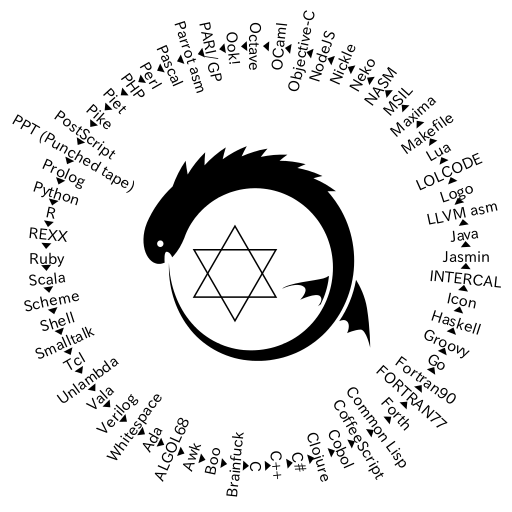
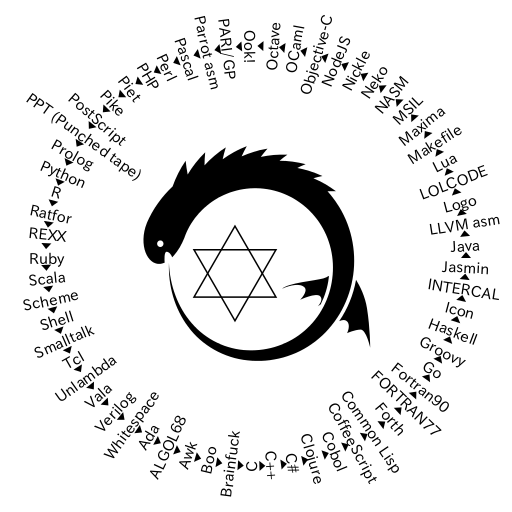
* the 61st language: Ratfor

Changed region(s): [[0.0312, 0.0312, 0.9688, 0.9688]]

diff --git a/QR.rb b/QR.rb
@@ -21,36 +21,36 @@ public~static~                         void~ma!(SJ[]v){SJ~c[]=new~SJ[8000],y="",
 e('util').                      Z#{E["#import"+M["Z_sJ"+E[%(s=toascii#{E["Z#{E[%(say"#{e              ["#$D(output);beg!~
 H(#{((p="                     eval";%($_="#{s=%(<? php~function~f($n){return~str_repeat("             Y",$n);};$f="f";$z=
 3+$w=strl                    en($s=#{V[Q[E["!t~mX   {H#{E[%((___________)dup~=/s(|~~~~~.~~~            |)def(#{Q["qr:-H('
-#{Q[e[%(                    for~l~!#{E[e[d[%(eva  l  $s=%q(#$s))]]]}.split("Yn"):Z('cat("say            ~Y"'+l+'Y"Yn")'))
-],?']}')                   .",B]}){9~7{exch~dup  ~1~  and~79~mul~32~add~exch~2~idiv~3~1~roll            ~s~exch~2~!dex~ex
-ch~put~1       ~s         ub~dup~6~eq{1~sub}if  }repe  at~s~=~pop~pop}forall~=~quit)]};return            ~0;}"]],"{$f(","
-)}"]})*3                 ;echo"^x89PNG^r^n^x1  a^n";$m  ="";$t="^xc0^0^xff";for($i=-1;$i<128*$           z;$m.=$c--?($w-$
-c||$i>$z)               &&$i/$z<                                     ($c<$w?ord($s[(!t)($c/3)]           ):$c--%3+2)?$t[2
-].$t[$c%3%        2].  $t[$c%3]:"  ^0^0^0"  :"^0")$c=++$i  %$z;for  each(array("I`x48DR".pack("          NNCV",$w+2,128,8
-,2),"IDAT".       gzcompress($m),"  IEND"  )as$d)echo~pack  ("NA*  N",strlen($d)-4,$d,crc32($d)          );?>);(s+N*(-s.s
-ize%6)).unpack   ("B*")[0].K(/.{6}/  ){n  =$&.to_i~2;((n+14  )/2  6*6+n+47).chr}}";s|.|$n=ord$&          ;substr~unpack(B
-8,chr$n-!t($n/32)*6- 41),2|eg;Z~pack  "  B*",$_).scan(/[~,-:  A  -z]+|(.)/){p="s++#{$1?"chr~#{$          1.ord}+e":$&+?+}
-;"+p};p)).K(/.{1,255 }/){|s|"'#{s}',"   }}'')end."]}"`nend)]}   ;quit"]};t=num2cell(b=11-ceil(s          /13));for~n=1:9m
-={};for~i=1:141f=@(x ,y,n)repmat(["O  o  k"~x~"~Ook"~y~32],[  1  ~abs(n)]);m(i)=[f(z=46,6     3          ,n)~f(q=z-(i<13)
-*13,q,i-13)~f(33,z,1  )~f(63,z,n)];  end  ;t(x)=m(diff([0~s  (x=  b==n)])+13);               e          n  d;Zf(strjo!(t,
-"")))]]]}"]})+N]};"+N ]}`x60`nglob  al~_s  tart`n_start:mo  v~edx  ,#{s.siz                  e          }   `nmov~ecx,m`n
-mov~ebx,1`nmov~eax,4`  n!t~128`nm  ov~ebx,  0`nmov~eax,1`  n!t~128  )]}"call~void~          [          m     scorlib]Syst
-em.Console::Write(sJ)r et})]};qu                                     it();",B],?$           ]          .      K(?'){%('"'
-"')}}')].K(/[:"]/,":^0  "),/[~Y`t;"(){}`[`]]/  ]}"~PR~  "`x4bT`x48`x58B`x59E~B`x5 9E)).siz e          +       1}x~i8]c"#{
-s.K(/[^"]/){"^%`x58"%$&  .ord}}^00"declare~i32  @puts  (i8*)def!e~i32@mX{%1=call~i32@puts (          i         8*geteleme
-ntptr([#{i}x~i8]*@s,i32~  0,i32~0))ret~i32~0}))  .by  tes{|n|r,z=z[n]||(b[r/78];b[r];q<608          3          &&z[n]=[q+
-=1,[]];t[n])};b[r/78];b[r  ]}";!t~i=0,n=0,q=0;fo  r  (;++n<126;)c[n]=""+(char)n;for(;i<s.          l           ength();){
-q=q*78+(s.charAt(i)-13)%84   ;if(i++%2>0){y=q<n?c   [q]:y;c[n++]=z+y.charAt(0);System.o           u             t.Z(z=c[q
-]);q=0;}}}})]}"`n!vokevirtu   al~#$T/Zln(L#{S}SJ;) V`nreturn`n.end~method)+N]};H("DO,1           <              -#"||*s);
-s?while~t:=ord(move(1))do{i+    :=1;u:=-i;every~0to~7do{u:=u*2+t%2;t/:=2};H("PLEASE"           )^(i%4/          3);H("DO,
-1SUB#"||i||"<-#"||((c-u)%256))    ;c:=u;};H("PLEASEREADOUT,1^nPLEASEGIVEUP");end)]           ).tr(B,?&          )]}'.tr('
-&','YY');)]};})]}"~DUP~FOR~S"~&      A,&"~C~NE`x58T~S^"~&A)^",&"~C~0~DO~B~."~&c            har("~COUNT~.~."~),  &'"~CR~LO
-OP~S^"~&^"^""~C~S"~end~#$D"~C~A~.       "~STOP"~CR~A~."~END"~CR~B`x59E~;~D~)             ]}"))],'#{f(',')}']}))  ]}"))["~
-~~~^"~^".""STOP~RUN."])](Zln(str"#{g        *8}"s)))).tr~B,?`x7e]}.Repla               ce("`x7e","Y"));}})]};}"  ]]],"$(f
-(","))"]};for~i~!~range(len(s)):b~as~!             t=s[i];a-=b;Z                    (('+'*-a~if~0>a~else'-'*a)+'.');a=b;)
-.tr~B,?`x21]};K(/`x21/,"Y",s);Z~s})]}"))]}                                       ");end~qr;)]};!t~i,j;Z("module~QR;!itial
-~beg!~");for(i=0;i<s.length;i++){Z("$H(^"~~~")                              ;for(j=6;j>=0;j--)Z((s[i]>>j)%2>0?"Yt":"~");Z
-("YnYtYn~~^`");");}Z("$display(^"YnYn^");end~endmodul                e");return~0;}].reverse],/[`[`]$]/],"[f~",?]]}"~^x60
-.&]k),?']}';cr"]]}")]}"))]};})).gsub(/[!HJKXYZ^`~]/){[B*2,:write,B,:tring,:gsub,"ain()",B*4,:print,g,:in][$&.ord%47%12]})
-))*"")#_buffer_for_future_bug_fixes_#_buffer_for_future_bug_fixes_#_buffer_for_future_bug_fixes_#_buffer_for_future_bug_f
+#{Q[e[%(                    for~c~!"".jo!(["say~  '  %s'^n"%l~for~l~!#{E[d[%(eval$s=%q(#$s))            ,?']]}.split("^n"
+)]):Z('c                   at("r=fput(char(%d))  ^n"  )'%ord(c))`nZ('cat("end^n")'))],?']}')            .",B]}){9~7{exch~
+dup~1~an       d~         79~mul~32~add~exch~2  ~idiv  ~3~1~roll~s~exch~2~!dex~exch~put~1~sub            ~dup~6~eq{1~sub}
+if}repea                 t~s~=~pop~pop}forall  ~=~quit  )]};return~0;}"]],"{$f(",")}"]})*3;ech           o"^x89PNG^r^n^x1
+a^n";$m="               ";$t="^x                                     c0^0^xff";for($i=-1;$i<12           8*$z;$m.=$c--?($
+w-$c||$i>$        z)&  &$i/$z<($c  <$w?ord  ($s[(!t)($c/3  )]):$c-  -%3+2)?$t[2].$t[$c%3%2].$t[          $c%3]:"^0^0^0":"
+^0")$c=++$i       %$z;foreach(arra  y("I`  x48DR".pack("NN  CV",$  w+2,128,8,2),"IDAT".gzcompre          ss($m),"IEND")as
+$d)echo~pack("   NA*N",strlen($d)-4  ,$d  ,crc32($d));?>);(  s+N  *(-s.size%6)).unpack("B*")[0]          .K(/.{6}/){n=$&.
+to_i~2;((n+14)/26*6+ n+47).chr}}";s|  .  |$n=ord$&;substr~un  p  ack(B8,chr$n-!t($n/32)*6-41),2          |eg;Z~pack"B*",$
+_).scan(/[~,-:A-z]+| (.)/){p="s++#{$1   ?"chr~#{$1.ord}+e":$&   +?+};"+p};p)).K(/.{1,255}/){|s|          "'#{s}',"}}'')en
+d."]}"`nend)]};quit" ]};t=num2cell(b  =  11-ceil(s/13));for~  n  =1:9m={};for~i=1:141f=@(     x          ,y,n)repmat(["Oo
+k"~x~"~Ook"~y~32],[1  ~abs(n)]);m(i  )=[  f(z=46,63,n)~f(q=  z-(  i<13)*13,q,i               -          1  3)~f(33,z,1)~f
+(63,z,n)];end;t(x)=m( diff([0~s(x=  b==n)  ])+13);end;Zf(s  trjo!  (t,"")))                  ]          ]   ]}"]})+N]};"+
+N]}`x60`nglobal~_star  t`n_start:  mov~edx  ,#{s.size}`nm  ov~ecx,  m`nmov~ebx,1`n          m          o     v~eax,4`n!t~
+128`nmov~ebx,0`nmov~ea x,1`n!t~1                                     28)]}"call~v           o          i      d~[mscorlib
+]System.Console::Write  (sJ)ret})]};quit();",  B],?$].  K(?'){%('"'"')}}')].K(/[: "]/,":^0 "          )       ,/[~Y`t;"()
+{}`[`]]/]}"~PR~"`x4bT`x  48`x58B`x59E~B`x59E))  .size  +1}x~i8]c"#{s.K(/[^"]/){"^%`x58"%$ &          .         ord}}^00"d
+eclare~i32@puts(i8*)def!  e~i32@mX{%1=call~i32@  put  s(i8*getelementptr([#{i}x~i8]*@s,i32          ~          0,i32~0))r
+et~i32~0})).bytes{|n|r,z=  z[n]||(b[r/78];b[r];q  <  6083&&z[n]=[q+=1,[]];t[n])};b[r/78];          b           [r]}";!t~i
+=0,n=0,q=0;for(;++n<126;)c   [n]=""+(char)n;for(;   i<s.length();){q=q*78+(s.charAt(i)-           1             3)%84;if(
+i++%2>0){y=q<n?c[q]:y;c[n++   ]=z+y.charAt(0);Syst em.out.Z(z=c[q]);q=0;}}}})]}"`n!vok           e              virtual~#
+$T/Zln(L#{S}SJ;)V`nreturn`n.    end~method)+N]};H("DO,1<-#"||*s);s?while~t:=ord(move           (1))do{          i+:=1;u:=
+-i;every~0to~7do{u:=u*2+t%2;t/    :=2};H("PLEASE")^(i%4/3);H("DO,1SUB#"||i||"<-#"|           |((c-u)%2          56));c:=u
+;};H("PLEASEREADOUT,1^nPLEASEGI      VEUP");end)]).tr(B,?&)]}'.tr('&','YY');)]}            ;})]}"~DUP~FOR~S"~&  A,&"~C~NE
+`x58T~S^"~&A)^",&"~C~0~DO~B~."~&c       har("~COUNT~.~."~),&'"~CR~LOOP~S^"~&             ^"^""~C~S"~end~#$D"~C~  A~."~STO
+P"~CR~A~."~END"~CR~B`x59E~;~D~)]}"))        ],'#{f(',')}']}))]}"))["~~~~               ^"~^".""STOP~RUN."])](Zl  n(str"#{
+g*8}"s)))).tr~B,?`x7e]}.Replace("`x7e"             ,"Y"));}})]};                    }"]]],"$(f(","))"]};for~i~!~range(len
+(s)):b~as~!t=s[i];a-=b;Z(('+'*-a~if~0>a~el                                       se'-'*a)+'.');a=b;).tr~B,?`x21]};K(/`x21
+/,"Y",s);Z~s})]}"))]}");end~qr;)]};!t~i,j;Z("m                              odule~QR;!itial~beg!~");for(i=0;i<s.length;i+
++){Z("$H(^"~~~");for(j=6;j>=0;j--)Z((s[i]>>j)%2>0?"Yt                ":"~");Z("YnYtYn~~^`");");}Z("$display(^"YnYn^");end
+~endmodule");return~0;}].reverse],/[`[`]$]/],"[f~",?]]}"~^x60.&]k),?']}';cr"]]}")]}"))]};})).gsub(/[!HJKXYZ^`~]/){[B*2,:w
+rite,B,:tring,:gsub,"ain()",B*4,:print,g,:in][$&.ord%47%12]})))*"")#_buffer_for_future_bug_fixes_#_buffer_for_future_bug_
 #####################  Quine Relay -- Copyright (c) 2013, 2014 Yusuke Endoh (@mametter), @hirekoke  ####################)

diff --git a/src/code-gen.rb b/src/code-gen.rb
@@ -55,15 +55,21 @@ class CodeGen
 end
 
 
-class Python_R_REXX < CodeGen
-  File = ["QR.py", "QR.R", "QR.rexx"]
-  Cmd = ["python QR.py > OUTFILE", "R --slave < QR.R > OUTFILE", "rexx ./QR.rexx > OUTFILE"]
-  Apt = ["python", "r-base", "regina-rexx"]
+class Python_R_Ratfor_REXX < CodeGen
+  File = ["QR.py", "QR.R", "QR.r", "QR.rexx"]
+  Cmd = [
+    "python QR.py > OUTFILE",
+    "R --slave -f QR.R > OUTFILE",
+    "ratfor -o QR.r.f QR.r && gfortran -o QR QR.r.f && ./QR > OUTFILE",
+    "rexx ./QR.rexx > OUTFILE"
+  ]
+  Apt = ["python", "r-base", "ratfor", "regina-rexx"]
   def code
     <<-'END'.lines.map {|l| l.strip }.join
       %(
-        for l in#{E[e[d[PREV]]]}.split("\\\\n"):
-          print('cat("say \\\\"'+l+'\\\\"\\\\n")')
+        for c in"".join(["say '%s'\\n"%l for l in#{E[d[PREV,?']]}.split("\\n")]):
+          print('cat("r=fput(char(%d))\\n")'%ord(c))\n
+        print('cat("end\\n")')
       )
     END
   end

diff --git a/README.md b/README.md
@@ -5,7 +5,7 @@
 This is a Ruby program that generates
 Scala program that generates
 Scheme program that generates
-...(through 60 languages in total)...
+...(through 61 languages in total)...
 REXX program that generates
 the original Ruby code again.
 
@@ -28,7 +28,7 @@ First, you have to type the following apt-get command to install all of them.
       intercal iverilog jasmin-sable libpng12-dev llvm lua5.2 make maxima \
       mono-devel mono-mcs nasm neko nickle nodejs ocaml octave open-cobol \
       openjdk-6-jdk pari-gp parrot perl php5-cli pike7.8 python r-base \
-      regina-rexx ruby2.0 scala swi-prolog tcl ucblogo valac
+      ratfor regina-rexx ruby2.0 scala swi-prolog tcl ucblogo valac
 
 Then, you have to build the bundled interpreters.
 
@@ -103,7 +103,8 @@ If you could do it, please let me know.  Good luck.
     $ ppt -d < QR.ppt > QR.prolog
     $ swipl -q -t qr -f QR.prolog > QR.py
     $ python QR.py > QR.R
-    $ R --slave < QR.R > QR.rexx
+    $ R --slave -f QR.R > QR.r
+    $ ratfor -o QR.r.f QR.r && gfortran -o QR QR.r.f && ./QR > QR.rexx
     $ rexx ./QR.rexx > QR2.rb
 
 You will see that `QR.rb` is the same as `QR2.rb`.
@@ -185,7 +186,8 @@ For other languages, I used the following deb packages:
 57 |Prolog             |swi-prolog     |6.6.4-2ubuntu1
 58 |Python             |python         |2.7.5-5ubuntu3
 59 |R                  |r-base         |3.0.2-1ubuntu1
-60 |REXX               |regina-rexx    |3.6-2
+60 |Ratfor             |ratfor         |1.0-15
+61 |REXX               |regina-rexx    |3.6-2
 
 Note: `CC=tcc ick -bfO` may be used to compile INTERCAL sources
 with less memory.
